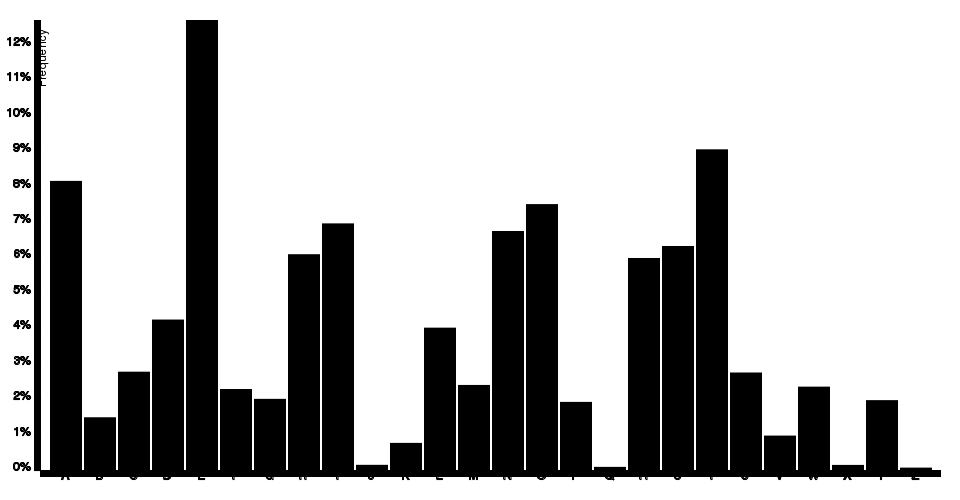
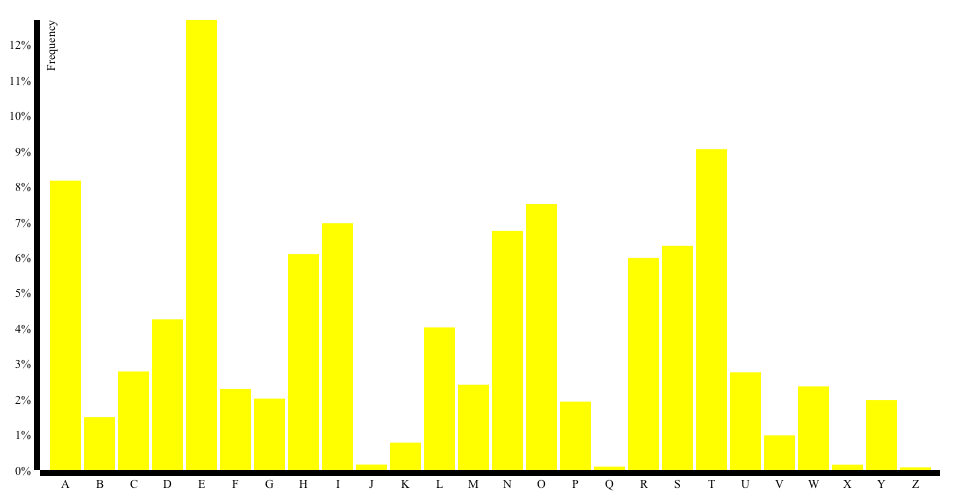
Not making any progress on this bug

diff --git a/index.js b/index.js
@@ -39,7 +39,7 @@ jsdom.env({
     svgStream.push(null);
 
     gm(svgStream, 'chart.svg')
-      // .options({ imageMagick: true })
+      .options({ imageMagick: true })
       .write('chart.png', function(pngErr) {
         process.exit();
       });

diff --git a/styles.css b/styles.css
@@ -1,5 +1,5 @@
 .bar {
-  fill: steelblue;
+  fill: #ff0;
 }
 
 .axis {
@@ -10,6 +10,7 @@
 .axis line {
   fill: none;
   stroke: #000;
+  stroke-width:1;
 }
 
 .x.axis path {
